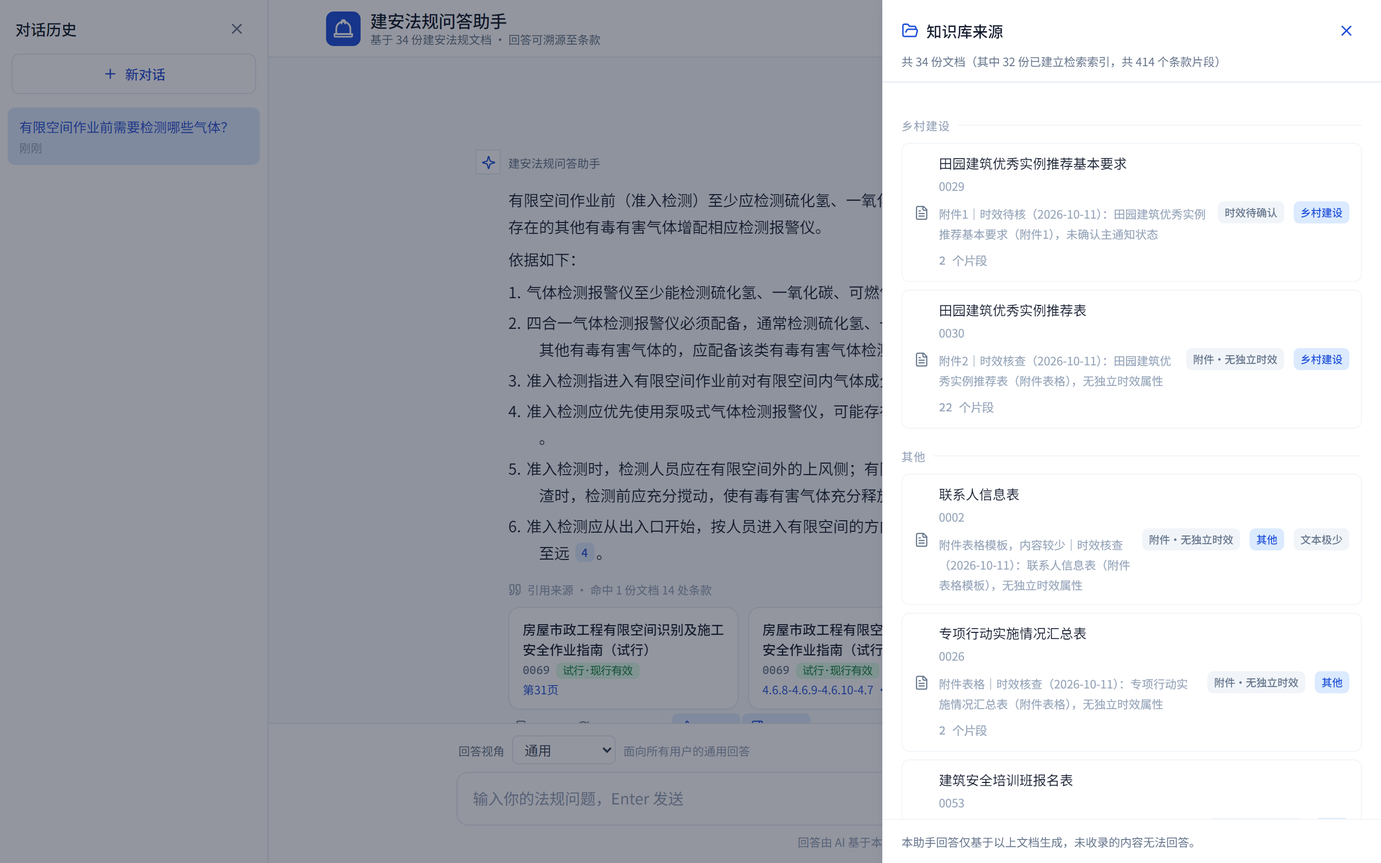
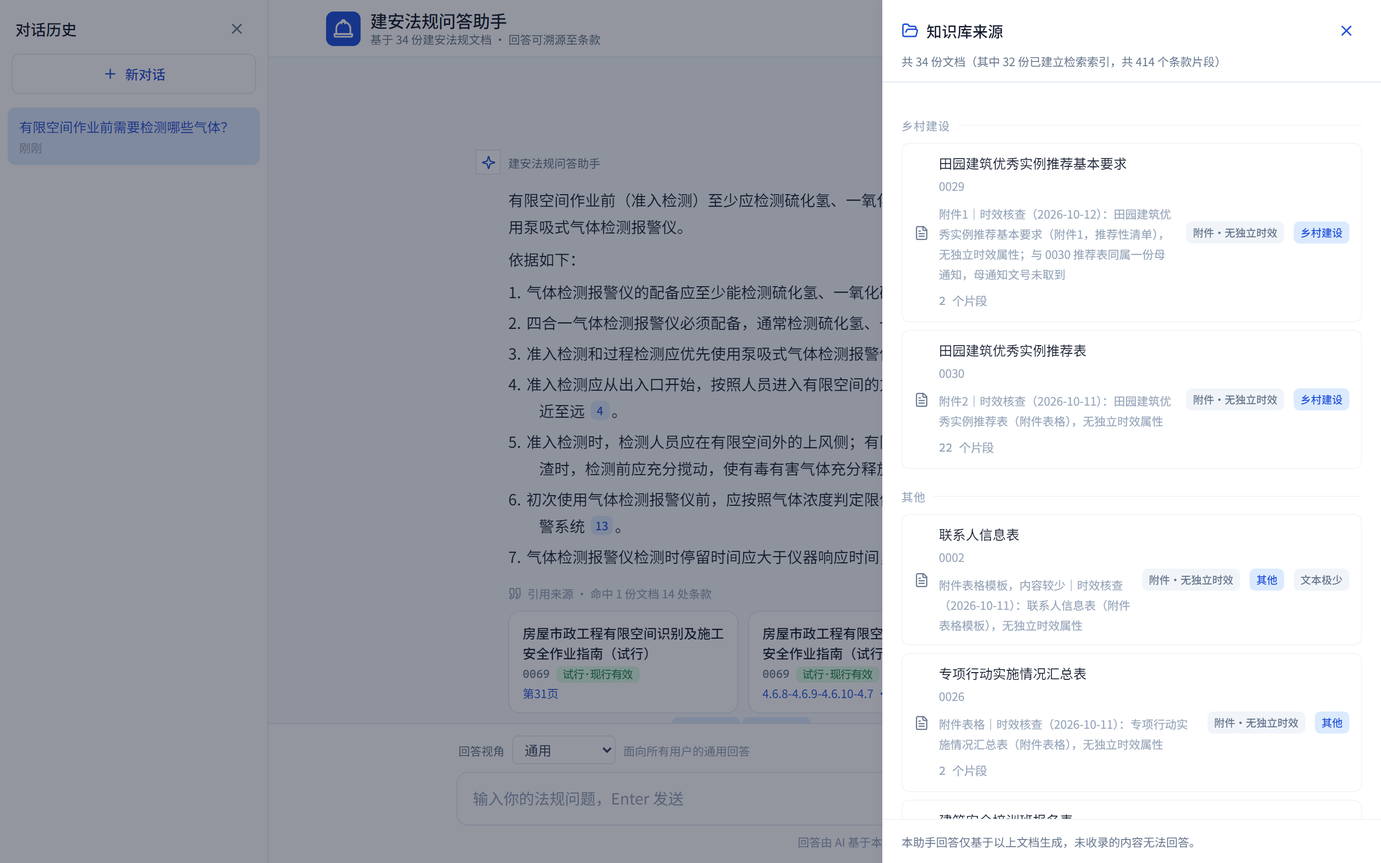
docs(kb): 时效核查第二批，unknown 由 11 份降到 1 份
对首批 11 份 unknown 做二次核查，10 份拿到公开依据、1 份仍不确定：
0003 建办质〔2018〕33号（effective）；0075/0076 出自建办质〔2024〕43号、
即已核定的 0074 的母通知（effective，标准号与自身发布日仍需比对封面）；
0005/0006 建办科〔2021〕2号 附件1/2、0017 建质安函〔2016〕47号宣传指导读物、
0029 附件、0048/0050 财办建〔2011〕187号 附件1/2、0051 财办建〔2011〕9号 附件1
（均 na，附件与年度申报大纲无独立时效）。

0001 涉企行政检查事项清单**故意保持 unknown**：公开网络取不到母文件文号，
且本地版写"房地产开发企业监督检查（3项）"、2025-10 河北转引版同条已作"（7项）"，
清单随年度动态更新，本地版很可能已过时——这种情况必须继续显示「时效待确认」，
不能为了让台账好看而标成现行有效。

工具侧两处配套修改：
- EVIDENCE 支持每条自带核查日期，台账新增"核查"列与"需人工复核"段，
  第二批只依据转发件与第三方法规库、尚未回官网比对原件这件事写在明面上。
- note 由追加改为整段重写：它是现状描述（显示在来源卡片上）不是观测日志，
  留着上一轮的"时效待核"会和新一轮"已核"同屏自相矛盾；历史由台账与 git 承担。

元数据重建后 414 片段、chunks_hash 2e65efd1315806ff… 与重建前逐字节一致，
引用逐字契约 414/414，全量总校验 9 PASS / 0 FAIL / 2 SKIPPED。

diff --git a/tools/backfill_validity.py b/tools/backfill_validity.py
@@ -54,6 +54,57 @@ EVIDENCE = {
              "建办质〔2024〕43号《关于开展建筑起重机械备案证和房屋市政工程施工安全监督人员"
              "考核合格证书电子化工作的通知》的附件业务规程（试行）；电子证照自 2024-10-01 起换发",
              "https://www.bcebca.org.cn/ShowNews.aspx?id=13124"),
+
+    # ---- 第二批（2026-10-12）：对首批 11 份 unknown 的二次核查 ----
+    # 元组可带第 5 项作为核查日期，缺省沿用 CHECKED。
+    "0003": ("effective", "2018",
+             "住房城乡建设部办公厅《关于印发震后建筑安全评估专家队工作办法的通知》"
+             "建办质〔2018〕33号；原文成文日期未取到，辽宁省住建厅转发件"
+             "辽住建安〔2018〕16号日期为 2018-08-02；未检索到废止或替代文件。"
+             "注意建办质〔2018〕34号是《第二届成员名单》、《震后房屋建筑安全应急评估"
+             "管理暂行办法》是另一份文件，均不得顶替本件",
+             "https://zjt.ln.gov.cn/zjt/tftz/53F3ACB27394430095051FB02F16F417/index.shtml",
+             "2026-10-12"),
+    "0005": ("na", "2021-01-18",
+             "建办科〔2021〕2号《住房和城乡建设部办公厅关于进一步加强历史文化街区和"
+             "历史建筑保护工作的通知》附件2（参考样式），无独立时效；母通知 2024 年仍被引用",
+             "https://www.mct.gov.cn/preview/whhlyqyzcxxfw/zhgl/202104/t20210430_924136.html",
+             "2026-10-12"),
+    "0006": ("na", "2021-01-18",
+             "同一母通知建办科〔2021〕2号 附件1（划定与确定标准·参考），参考性文件，无独立时效",
+             "http://xxgk.jl.gov.cn/zcbm/fgw_98022/xxgkmlqy/202103/P020210302731959479061.pdf",
+             "2026-10-12"),
+    "0017": ("na", "2016-05-27",
+             "住房和城乡建设部工程质量安全监管司《关于做好〈工程项目施工人员安全指导手册〉"
+             "宣传发放工作的通知》建质安函〔2016〕47号（2016-05-27），手册上传官网供免费发放；"
+             "属宣传指导读物而非规范性文件，未见新版或替代（出版单位与 ISBN 未取到官方来源）",
+             "https://www.waizi.org.cn/law/11130.html", "2026-10-12"),
+    "0029": ("na", "",
+             "田园建筑优秀实例推荐基本要求（附件1，推荐性清单），无独立时效属性；"
+             "与 0030 推荐表同属一份母通知，母通知文号未取到",
+             "", "2026-10-12"),
+    "0048": ("na", "2011-12-16",
+             "财政部办公厅、住房城乡建设部办公厅《关于组织实施2012年度太阳能光电建筑应用"
+             "示范的通知》财办建〔2011〕187号 附件1；年度性申报大纲，仅对当年度示范有效，"
+             "未见废止声明（另有目录把日期标为 2012-01-05，以正文为准待复核）",
+             "https://law.training.sdufe.edu.cn/library/detail/66446", "2026-10-12"),
+    "0050": ("na", "2011-12-16",
+             "同一母通知财办建〔2011〕187号 附件2",
+             "https://law.training.sdufe.edu.cn/library/detail/66446", "2026-10-12"),
+    "0051": ("na", "2011-01-27",
+             "《关于组织实施太阳能光电建筑应用一体化示范的通知》财办建〔2011〕9号 附件1；"
+             "与 0048/0050 分属不同年度、不同文件，三者标题相似但**不得互相顶替**"
+             "（辽宁转发件把本件写作'财建〔2011〕9号'，疑为笔误）",
+             "https://law.training.sdufe.edu.cn/library/detail/66112", "2026-10-12"),
+    "0075": ("effective", "2024-09-10",
+             "建办质〔2024〕43号通知（即 0074 的母通知）附带的电子证照信息标准；"
+             "2024-10-01 起全国试运行、2024-12-31 前全面换发，至今未见替代。"
+             "本地正文含'2025年1月1日以后出厂'的字段要求，与 2024 版结构一致。"
+             "**标准号与标准自身发布日未出现在本地文本中，需人工比对封面**",
+             "https://www.bcebca.org.cn/ShowNews.aspx?id=13124", "2026-10-12"),
+    "0076": ("effective", "2024-09-10",
+             "同 0075，同一通知的另一份电子证照信息标准",
+             "https://www.bcebca.org.cn/ShowNews.aspx?id=13124", "2026-10-12"),
 }
 
 # 按文档类型判定为非规范性文件：附件表格、示例、报名表、征订单、讲话、示意图扫描件
@@ -73,19 +124,15 @@ NON_NORMATIVE = {
     "0068": "建设项目开工'一件事'数据服务清单（附件清单）",
 }
 
-# 仍属规范性文件/技术标准，但本次未取到可靠文号或废止信息 → 保持 unknown 并记录原因
+# 仍属规范性文件/技术标准，但未取到可靠文号或废止信息 → 保持 unknown 并记录原因
+# 值为 (原因, 核查日期)
 STILL_UNKNOWN = {
-    "0001": "涉企行政检查事项清单，随年度公告更新，未取到本年度文号",
-    "0003": "震后建筑安全评估专家队工作办法，未取到文号与印发日期",
-    "0005": "保护标志牌参考样式（附件2），未确认其主文件是否仍有效",
-    "0006": "历史文化街区划定和历史建筑确定标准（参考），参考性文件，未确认现行版本",
-    "0017": "工程项目施工人员安全指导手册（指导读物，无文号）",
-    "0029": "田园建筑优秀实例推荐基本要求（附件1），未确认主通知状态",
-    "0048": "太阳能光电建筑应用集中示范区实施方案编制大纲（附件1），未确认主通知状态",
-    "0050": "太阳能光电建筑一体化应用示范项目实施方案编制大纲（附件2），同上",
-    "0051": "太阳能光电建筑应用一体化示范项目实施方案编制大纲（附件1），同上",
-    "0075": "一体化政务服务平台电子证照 建筑起重机械备案证 信息标准，未确认标准现行版本",
-    "0076": "一体化政务服务平台电子证照 施工安全监督人员考核合格证书 信息标准，同上",
+    "0001": ("涉企行政检查事项清单：住建部确曾公布，但公开网络未取到母文件文号与日期。"
+             "本地版为'房地产开发企业监督检查（3项）/城市供排水监督检查（9项）'，"
+             "而 2025-10 沧州市转引的《河北省住房城乡建设领域涉企行政检查事项主要检查标准》"
+             "同一条目已写作'（7项）'——清单随年度动态更新，本地版**很可能已过时**。"
+             "保持 unknown，界面继续显示「时效待确认」，不得当作现行检查依据",
+             "2026-10-12"),
 }
 
 STATUS_LABEL = {
@@ -107,9 +154,12 @@ def main():
     for doc_id in sorted(docs):
         entry = docs[doc_id]
         title = entry.get("title", "")
+        cdate = CHECKED
         if doc_id in EVIDENCE:
-            status, vdate, basis, url = EVIDENCE[doc_id]
-            note_add = f"时效核查（{CHECKED}）：{basis}；来源 {url}"
+            rec = EVIDENCE[doc_id]
+            status, vdate, basis, url = rec[:4]
+            cdate = rec[4] if len(rec) > 4 else CHECKED
+            note_add = f"时效核查（{cdate}）：{basis}" + (f"；来源 {url}" if url else "")
         elif doc_id in NON_NORMATIVE:
             status, vdate = "na", ""
             basis = NON_NORMATIVE[doc_id]
@@ -117,21 +167,25 @@ def main():
             note_add = f"时效核查（{CHECKED}）：{basis}，无独立时效属性"
         elif doc_id in STILL_UNKNOWN:
             status, vdate = "unknown", ""
-            basis = STILL_UNKNOWN[doc_id]
+            basis, cdate = STILL_UNKNOWN[doc_id]
             url = ""
-            note_add = f"时效待核（{CHECKED}）：{basis}"
+            note_add = f"时效待核（{cdate}）：{basis}"
         else:
             status, vdate, basis, url = "unknown", "", "本次未核查", ""
             note_add = ""
 
-        rows.append((doc_id, title, status, vdate, basis, url))
+        rows.append((doc_id, title, status, vdate, basis, url, cdate))
         if args.dry_run or not note_add:
             continue
         entry["valid_status"] = status
         entry["version_date"] = vdate
+        # note 是**现状描述**（会显示在来源卡片上），不是观测日志：
+        # 上一轮写的"时效待核（2026-10-11）"若留着，二次核查改完就会出现
+        # 一句说待核、一句说已核。历史由台账与 git 记录，这里整段重写。
         old = (entry.get("note") or "").strip()
-        if note_add not in old:
-            entry["note"] = f"{old}｜{note_add}" if old else note_add
+        keep = "｜".join(s for s in old.split("｜")
+                         if s.strip() and not s.strip().startswith(("时效核查（", "时效待核（")))
+        entry["note"] = f"{keep}｜{note_add}" if keep else note_add
 
     if not args.dry_run:
         with open(META, "w", encoding="utf-8") as f:
@@ -142,10 +196,12 @@ def main():
     counts = {}
     for _, _, s, *_ in rows:
         counts[s] = counts.get(s, 0) + 1
+    passes = sorted({r[6] for r in rows})
     lines = [
         "# 34 份法规文档时效核查台账",
         "",
-        f"核查日期：{CHECKED}　|　核查方式：公开渠道检索 + 语料正文就地核对　|　**需人工抽查确认后方可视为定稿**",
+        f"核查日期：{'、'.join(passes)}（分批推进，每批日期标在逐条记录里）　|　"
+        "核查方式：公开渠道检索 + 语料正文就地核对　|　**需人工抽查确认后方可视为定稿**",
         "",
         "状态词表（`kb/docs_meta.json` 的 `valid_status`）：",
         "",
@@ -165,17 +221,27 @@ def main():
         if counts.get(k):
             lines.append(f"- {STATUS_LABEL[k]}（`{k}`）：**{counts[k]}** 份")
     lines += ["", "## 逐条记录", "",
-              "| doc_id | 文档 | 状态 | 版本/施行日期 | 依据 | 来源 |",
-              "|---|---|---|---|---|---|"]
-    for doc_id, title, status, vdate, basis, url in rows:
+              "| doc_id | 文档 | 状态 | 版本/施行日期 | 核查 | 依据 | 来源 |",
+              "|---|---|---|---|---|---|---|"]
+    for doc_id, title, status, vdate, basis, url, cdate in rows:
         link = f"[链接]({url})" if url else "—"
-        lines.append(f"| {doc_id} | {title[:28]} | `{status}` | {vdate or '—'} | {basis} | {link} |")
+        lines.append(f"| {doc_id} | {title[:28]} | `{status}` | {vdate or '—'} | "
+                     f"{cdate} | {basis} | {link} |")
+    unk = [r[0] for r in rows if r[2] == "unknown"]
+    recheck = [r[0] for r in rows
+               if r[6] == max(passes) and r[2] in ("effective", "trial", "na")]
     lines += ["", "## 尚未解决的部分", "",
-              f"{counts.get('unknown', 0)} 份仍为 `unknown`，原因见上表。这些条目在界面上继续显示"
+              f"{len(unk)} 份仍为 `unknown`（{('、'.join(unk)) or '无'}），原因见上表。这些条目在界面上继续显示"
               "**「时效待确认」**徽章——这是有意为之：宁可显式承认未核，也不要给出未经验证的「现行有效」。",
               "",
-              "**下一步**：由队员逐份到发文机关官网或国家法律法规数据库（flk.npc.gov.cn）复核，"
-              "优先处理仍为 `unknown` 的规范性文件（0001、0003、0005、0006、0029、0048、0050、0051、0075、0076）。",
+              "## 需人工复核的部分",
+              "",
+              f"第二批（{max(passes)}）新核定的 {len(recheck)} 份（{'、'.join(recheck)}）"
+              "依据的是公开检索到的转发件与第三方法规库，**尚未逐份回到发文机关官网或"
+              "国家法律法规数据库（flk.npc.gov.cn）比对原件**，其中 0075/0076 的标准号与"
+              "标准自身发布日未出现在本地正文里，需人工比对封面后才能写成定论。",
+              "",
+              "**下一步**：由队员对上述条目逐份复核原件；优先处理仍为 `unknown` 的规范性文件。",
               ""]
     if not args.dry_run:
         with open(LEDGER, "w", encoding="utf-8") as f:

diff --git a/docs/法规时效核查台账.md b/docs/法规时效核查台账.md
@@ -1,6 +1,6 @@
 # 34 份法规文档时效核查台账
 
-核查日期：2026-10-11　|　核查方式：公开渠道检索 + 语料正文就地核对　|　**需人工抽查确认后方可视为定稿**
+核查日期：2026-10-11、2026-10-12（分批推进，每批日期标在逐条记录里）　|　核查方式：公开渠道检索 + 语料正文就地核对　|　**需人工抽查确认后方可视为定稿**
 
 状态词表（`kb/docs_meta.json` 的 `valid_status`）：
 
@@ -15,53 +15,57 @@
 
 ## 统计
 
-- 现行有效（`effective`）：**5** 份
+- 现行有效（`effective`）：**8** 份
 - 试行·现行有效（`trial`）：**4** 份
 - 征求意见稿·未生效（`consultation`）：**1** 份
-- 附件·无独立时效（`na`）：**13** 份
-- 待确认（`unknown`）：**11** 份
+- 附件·无独立时效（`na`）：**20** 份
+- 待确认（`unknown`）：**1** 份
 
 ## 逐条记录
 
-| doc_id | 文档 | 状态 | 版本/施行日期 | 依据 | 来源 |
-|---|---|---|---|---|---|
-| 0001 | 住房城乡建设部涉企行政检查事项 | `unknown` | — | 涉企行政检查事项清单，随年度公告更新，未取到本年度文号 | — |
-| 0002 | 联系人信息表 | `na` | — | 联系人信息表（附件表格模板） | — |
-| 0003 | 震后建筑安全评估专家队工作办法 | `unknown` | — | 震后建筑安全评估专家队工作办法，未取到文号与印发日期 | — |
-| 0004 | 建筑施工安全隐患示意图（扫描图片版） | `na` | — | 施工安全隐患示意图（扫描图片版，图示材料） | — |
-| 0005 | 历史文化街区和历史建筑保护标志牌参考样式 | `unknown` | — | 保护标志牌参考样式（附件2），未确认其主文件是否仍有效 | — |
-| 0006 | 历史文化街区划定和历史建筑确定标准（参考） | `unknown` | — | 历史文化街区划定和历史建筑确定标准（参考），参考性文件，未确认现行版本 | — |
-| 0011 | 震后房屋建筑安全应急评估管理暂行办法 | `effective` | 2016-12-13 | 建质〔2016〕253号 印发 | [链接](https://www.waizi.org.cn/law/15327.html) |
-| 0012 | 震后房屋建筑安全应急评估技术指南 | `effective` | 2020-08-17 | 住房城乡建设部印发《震后房屋建筑安全应急评估技术指南》的通知 | [链接](https://www.sxjzy.org/h-nd-1798.html) |
-| 0017 | 工程项目施工人员安全指导手册 | `unknown` | — | 工程项目施工人员安全指导手册（指导读物，无文号） | — |
-| 0026 | 专项行动实施情况汇总表 | `na` | — | 专项行动实施情况汇总表（附件表格） | — |
-| 0029 | 田园建筑优秀实例推荐基本要求 | `unknown` | — | 田园建筑优秀实例推荐基本要求（附件1），未确认主通知状态 | — |
-| 0030 | 田园建筑优秀实例推荐表 | `na` | — | 田园建筑优秀实例推荐表（附件表格） | — |
-| 0048 | 太阳能光电建筑应用集中示范区实施方案编制大纲 | `unknown` | — | 太阳能光电建筑应用集中示范区实施方案编制大纲（附件1），未确认主通知状态 | — |
-| 0049 | 太阳能光电建筑应用财政补助资金申请汇总表 | `na` | — | 太阳能光电建筑应用财政补助资金申请汇总表（附件表格） | — |
-| 0050 | 太阳能光电建筑一体化应用示范项目实施方案编制大纲 | `unknown` | — | 太阳能光电建筑一体化应用示范项目实施方案编制大纲（附件2），同上 | — |
-| 0051 | 太阳能光电建筑应用一体化示范项目实施方案编制大纲 | `unknown` | — | 太阳能光电建筑应用一体化示范项目实施方案编制大纲（附件1），同上 | — |
-| 0052 | 太阳能光电建筑应用财政补助资金申请汇总表（早期版） | `na` | — | 同上（早期版附件表格） | — |
-| 0053 | 建筑安全培训班报名表 | `na` | — | 建筑安全培训班报名表（报名表） | — |
-| 0057 | 在全国建筑安全生产联络员第十二次会议上的讲话 | `na` | — | 在全国建筑安全生产联络员第十二次会议上的讲话（2010 年讲话稿） | — |
-| 0062 | 《建筑施工特种作业人员安全技术考核培训教材》征订单 | `na` | — | 《建筑施工特种作业人员安全技术考核培训教材》征订单 | — |
-| 0063 | 建筑施工特种作业人员管理规定 | `effective` | 2026-06-01 | 住房和城乡建设部令第60号（2025-12-17 公布），取代建质〔2008〕75号；语料正文含'第60号'与'2026年6月1日起施行'，已就地核对 | [链接](https://policy.mofcom.gov.cn/claw/clawContent.shtml?id=105695) |
-| 0064 | 建筑施工特种作业人员管理规定（PDF版式） | `effective` | 2026-06-01 | 同 0063（PDF 版式副本，正文含第60号令与施行日期） | [链接](https://policy.mofcom.gov.cn/claw/clawContent.shtml?id=105695) |
-| 0065 | 建设项目开工“一件事”申请表（示例） | `na` | — | 建设项目开工'一件事'申请表（示例） | — |
-| 0066 | 建设项目开工“一件事”材料清单（示例） | `na` | — | 建设项目开工'一件事'材料清单（示例） | — |
-| 0067 | 建设项目开工“一件事”办理流程（示例） | `na` | — | 建设项目开工'一件事'办理流程（示例流程图） | — |
-| 0068 | 建设项目开工“一件事”数据服务清单 | `na` | — | 建设项目开工'一件事'数据服务清单（附件清单） | — |
-| 0069 | 房屋市政工程有限空间识别及施工安全作业指南（试行） | `trial` | 2025-06-23 | 住房城乡建设部办公厅关于印发《房屋市政工程有限空间识别及施工安全作业指南（试行）》的通知；试行稿已印发施行，属现行有效的试行性文件 | [链接](https://www.jsjlztb.org.cn/m/zfwj8-2.html) |
-| 0070 | 房屋市政工程有限空间识别及施工安全作业指南（征求意见稿） | `consultation` | 2025-03-01 | 同指南的征求意见稿，未生效；已由 0069 试行版取代，不得作为施工依据 | [链接](https://www.grandall.com.cn/ghsd/info.aspx?itemid=34422) |
-| 0071 | 危险性较大的分部分项工程专项施工方案严重缺陷清单（试行） | `trial` | 2024-12-31 | 建办质〔2024〕63号 印发（试行）；各地 2025-01 转发 | [链接](https://www.sxjzy.org/h-nd-37531.html) |
-| 0072 | 房屋建筑和市政基础设施工程禁止和限制使用技术目录（第二批 | `effective` | 2025-08-03 | 住房城乡建设部公告2024年第186号发布（2024-12-03），自发布之日起 9 个月后即 2025-08-03 起实施 | [链接](https://zjt.xinjiang.gov.cn/xjzjt/c113175/202412/22979485f90048bb974d2d6c63205c4f.shtml) |
-| 0073 | 房屋市政工程施工安全监督人员培训考核大纲（试行） | `trial` | 2024-11-25 | 建办质〔2024〕56号 印发（试行） | [链接](https://www.bcebca.org.cn/ShowNews.aspx?id=13440) |
-| 0074 | 建筑起重机械备案证、房屋市政工程施工安全监督人员考核合格 | `trial` | 2024-09-10 | 建办质〔2024〕43号《关于开展建筑起重机械备案证和房屋市政工程施工安全监督人员考核合格证书电子化工作的通知》的附件业务规程（试行）；电子证照自 2024-10-01 起换发 | [链接](https://www.bcebca.org.cn/ShowNews.aspx?id=13124) |
-| 0075 | 一体化政务服务平台 电子证照 建筑起重机械备案证 | `unknown` | — | 一体化政务服务平台电子证照 建筑起重机械备案证 信息标准，未确认标准现行版本 | — |
-| 0076 | 一体化政务服务平台 电子证照 房屋市政工程施工安全监督人 | `unknown` | — | 一体化政务服务平台电子证照 施工安全监督人员考核合格证书 信息标准，同上 | — |
+| doc_id | 文档 | 状态 | 版本/施行日期 | 核查 | 依据 | 来源 |
+|---|---|---|---|---|---|---|
+| 0001 | 住房城乡建设部涉企行政检查事项 | `unknown` | — | 2026-10-12 | 涉企行政检查事项清单：住建部确曾公布，但公开网络未取到母文件文号与日期。本地版为'房地产开发企业监督检查（3项）/城市供排水监督检查（9项）'，而 2025-10 沧州市转引的《河北省住房城乡建设领域涉企行政检查事项主要检查标准》同一条目已写作'（7项）'——清单随年度动态更新，本地版**很可能已过时**。保持 unknown，界面继续显示「时效待确认」，不得当作现行检查依据 | — |
+| 0002 | 联系人信息表 | `na` | — | 2026-10-11 | 联系人信息表（附件表格模板） | — |
+| 0003 | 震后建筑安全评估专家队工作办法 | `effective` | 2018 | 2026-10-12 | 住房城乡建设部办公厅《关于印发震后建筑安全评估专家队工作办法的通知》建办质〔2018〕33号；原文成文日期未取到，辽宁省住建厅转发件辽住建安〔2018〕16号日期为 2018-08-02；未检索到废止或替代文件。注意建办质〔2018〕34号是《第二届成员名单》、《震后房屋建筑安全应急评估管理暂行办法》是另一份文件，均不得顶替本件 | [链接](https://zjt.ln.gov.cn/zjt/tftz/53F3ACB27394430095051FB02F16F417/index.shtml) |
+| 0004 | 建筑施工安全隐患示意图（扫描图片版） | `na` | — | 2026-10-11 | 施工安全隐患示意图（扫描图片版，图示材料） | — |
+| 0005 | 历史文化街区和历史建筑保护标志牌参考样式 | `na` | 2021-01-18 | 2026-10-12 | 建办科〔2021〕2号《住房和城乡建设部办公厅关于进一步加强历史文化街区和历史建筑保护工作的通知》附件2（参考样式），无独立时效；母通知 2024 年仍被引用 | [链接](https://www.mct.gov.cn/preview/whhlyqyzcxxfw/zhgl/202104/t20210430_924136.html) |
+| 0006 | 历史文化街区划定和历史建筑确定标准（参考） | `na` | 2021-01-18 | 2026-10-12 | 同一母通知建办科〔2021〕2号 附件1（划定与确定标准·参考），参考性文件，无独立时效 | [链接](http://xxgk.jl.gov.cn/zcbm/fgw_98022/xxgkmlqy/202103/P020210302731959479061.pdf) |
+| 0011 | 震后房屋建筑安全应急评估管理暂行办法 | `effective` | 2016-12-13 | 2026-10-11 | 建质〔2016〕253号 印发 | [链接](https://www.waizi.org.cn/law/15327.html) |
+| 0012 | 震后房屋建筑安全应急评估技术指南 | `effective` | 2020-08-17 | 2026-10-11 | 住房城乡建设部印发《震后房屋建筑安全应急评估技术指南》的通知 | [链接](https://www.sxjzy.org/h-nd-1798.html) |
+| 0017 | 工程项目施工人员安全指导手册 | `na` | 2016-05-27 | 2026-10-12 | 住房和城乡建设部工程质量安全监管司《关于做好〈工程项目施工人员安全指导手册〉宣传发放工作的通知》建质安函〔2016〕47号（2016-05-27），手册上传官网供免费发放；属宣传指导读物而非规范性文件，未见新版或替代（出版单位与 ISBN 未取到官方来源） | [链接](https://www.waizi.org.cn/law/11130.html) |
+| 0026 | 专项行动实施情况汇总表 | `na` | — | 2026-10-11 | 专项行动实施情况汇总表（附件表格） | — |
+| 0029 | 田园建筑优秀实例推荐基本要求 | `na` | — | 2026-10-12 | 田园建筑优秀实例推荐基本要求（附件1，推荐性清单），无独立时效属性；与 0030 推荐表同属一份母通知，母通知文号未取到 | — |
+| 0030 | 田园建筑优秀实例推荐表 | `na` | — | 2026-10-11 | 田园建筑优秀实例推荐表（附件表格） | — |
+| 0048 | 太阳能光电建筑应用集中示范区实施方案编制大纲 | `na` | 2011-12-16 | 2026-10-12 | 财政部办公厅、住房城乡建设部办公厅《关于组织实施2012年度太阳能光电建筑应用示范的通知》财办建〔2011〕187号 附件1；年度性申报大纲，仅对当年度示范有效，未见废止声明（另有目录把日期标为 2012-01-05，以正文为准待复核） | [链接](https://law.training.sdufe.edu.cn/library/detail/66446) |
+| 0049 | 太阳能光电建筑应用财政补助资金申请汇总表 | `na` | — | 2026-10-11 | 太阳能光电建筑应用财政补助资金申请汇总表（附件表格） | — |
+| 0050 | 太阳能光电建筑一体化应用示范项目实施方案编制大纲 | `na` | 2011-12-16 | 2026-10-12 | 同一母通知财办建〔2011〕187号 附件2 | [链接](https://law.training.sdufe.edu.cn/library/detail/66446) |
+| 0051 | 太阳能光电建筑应用一体化示范项目实施方案编制大纲 | `na` | 2011-01-27 | 2026-10-12 | 《关于组织实施太阳能光电建筑应用一体化示范的通知》财办建〔2011〕9号 附件1；与 0048/0050 分属不同年度、不同文件，三者标题相似但**不得互相顶替**（辽宁转发件把本件写作'财建〔2011〕9号'，疑为笔误） | [链接](https://law.training.sdufe.edu.cn/library/detail/66112) |
+| 0052 | 太阳能光电建筑应用财政补助资金申请汇总表（早期版） | `na` | — | 2026-10-11 | 同上（早期版附件表格） | — |
+| 0053 | 建筑安全培训班报名表 | `na` | — | 2026-10-11 | 建筑安全培训班报名表（报名表） | — |
+| 0057 | 在全国建筑安全生产联络员第十二次会议上的讲话 | `na` | — | 2026-10-11 | 在全国建筑安全生产联络员第十二次会议上的讲话（2010 年讲话稿） | — |
+| 0062 | 《建筑施工特种作业人员安全技术考核培训教材》征订单 | `na` | — | 2026-10-11 | 《建筑施工特种作业人员安全技术考核培训教材》征订单 | — |
+| 0063 | 建筑施工特种作业人员管理规定 | `effective` | 2026-06-01 | 2026-10-11 | 住房和城乡建设部令第60号（2025-12-17 公布），取代建质〔2008〕75号；语料正文含'第60号'与'2026年6月1日起施行'，已就地核对 | [链接](https://policy.mofcom.gov.cn/claw/clawContent.shtml?id=105695) |
+| 0064 | 建筑施工特种作业人员管理规定（PDF版式） | `effective` | 2026-06-01 | 2026-10-11 | 同 0063（PDF 版式副本，正文含第60号令与施行日期） | [链接](https://policy.mofcom.gov.cn/claw/clawContent.shtml?id=105695) |
+| 0065 | 建设项目开工“一件事”申请表（示例） | `na` | — | 2026-10-11 | 建设项目开工'一件事'申请表（示例） | — |
+| 0066 | 建设项目开工“一件事”材料清单（示例） | `na` | — | 2026-10-11 | 建设项目开工'一件事'材料清单（示例） | — |
+| 0067 | 建设项目开工“一件事”办理流程（示例） | `na` | — | 2026-10-11 | 建设项目开工'一件事'办理流程（示例流程图） | — |
+| 0068 | 建设项目开工“一件事”数据服务清单 | `na` | — | 2026-10-11 | 建设项目开工'一件事'数据服务清单（附件清单） | — |
+| 0069 | 房屋市政工程有限空间识别及施工安全作业指南（试行） | `trial` | 2025-06-23 | 2026-10-11 | 住房城乡建设部办公厅关于印发《房屋市政工程有限空间识别及施工安全作业指南（试行）》的通知；试行稿已印发施行，属现行有效的试行性文件 | [链接](https://www.jsjlztb.org.cn/m/zfwj8-2.html) |
+| 0070 | 房屋市政工程有限空间识别及施工安全作业指南（征求意见稿） | `consultation` | 2025-03-01 | 2026-10-11 | 同指南的征求意见稿，未生效；已由 0069 试行版取代，不得作为施工依据 | [链接](https://www.grandall.com.cn/ghsd/info.aspx?itemid=34422) |
+| 0071 | 危险性较大的分部分项工程专项施工方案严重缺陷清单（试行） | `trial` | 2024-12-31 | 2026-10-11 | 建办质〔2024〕63号 印发（试行）；各地 2025-01 转发 | [链接](https://www.sxjzy.org/h-nd-37531.html) |
+| 0072 | 房屋建筑和市政基础设施工程禁止和限制使用技术目录（第二批 | `effective` | 2025-08-03 | 2026-10-11 | 住房城乡建设部公告2024年第186号发布（2024-12-03），自发布之日起 9 个月后即 2025-08-03 起实施 | [链接](https://zjt.xinjiang.gov.cn/xjzjt/c113175/202412/22979485f90048bb974d2d6c63205c4f.shtml) |
+| 0073 | 房屋市政工程施工安全监督人员培训考核大纲（试行） | `trial` | 2024-11-25 | 2026-10-11 | 建办质〔2024〕56号 印发（试行） | [链接](https://www.bcebca.org.cn/ShowNews.aspx?id=13440) |
+| 0074 | 建筑起重机械备案证、房屋市政工程施工安全监督人员考核合格 | `trial` | 2024-09-10 | 2026-10-11 | 建办质〔2024〕43号《关于开展建筑起重机械备案证和房屋市政工程施工安全监督人员考核合格证书电子化工作的通知》的附件业务规程（试行）；电子证照自 2024-10-01 起换发 | [链接](https://www.bcebca.org.cn/ShowNews.aspx?id=13124) |
+| 0075 | 一体化政务服务平台 电子证照 建筑起重机械备案证 | `effective` | 2024-09-10 | 2026-10-12 | 建办质〔2024〕43号通知（即 0074 的母通知）附带的电子证照信息标准；2024-10-01 起全国试运行、2024-12-31 前全面换发，至今未见替代。本地正文含'2025年1月1日以后出厂'的字段要求，与 2024 版结构一致。**标准号与标准自身发布日未出现在本地文本中，需人工比对封面** | [链接](https://www.bcebca.org.cn/ShowNews.aspx?id=13124) |
+| 0076 | 一体化政务服务平台 电子证照 房屋市政工程施工安全监督人 | `effective` | 2024-09-10 | 2026-10-12 | 同 0075，同一通知的另一份电子证照信息标准 | [链接](https://www.bcebca.org.cn/ShowNews.aspx?id=13124) |
 
 ## 尚未解决的部分
 
-11 份仍为 `unknown`，原因见上表。这些条目在界面上继续显示**「时效待确认」**徽章——这是有意为之：宁可显式承认未核，也不要给出未经验证的「现行有效」。
+1 份仍为 `unknown`（0001），原因见上表。这些条目在界面上继续显示**「时效待确认」**徽章——这是有意为之：宁可显式承认未核，也不要给出未经验证的「现行有效」。
 
-**下一步**：由队员逐份到发文机关官网或国家法律法规数据库（flk.npc.gov.cn）复核，优先处理仍为 `unknown` 的规范性文件（0001、0003、0005、0006、0029、0048、0050、0051、0075、0076）。
+## 需人工复核的部分
+
+第二批（2026-10-12）新核定的 10 份（0003、0005、0006、0017、0029、0048、0050、0051、0075、0076）依据的是公开检索到的转发件与第三方法规库，**尚未逐份回到发文机关官网或国家法律法规数据库（flk.npc.gov.cn）比对原件**，其中 0075/0076 的标准号与标准自身发布日未出现在本地正文里，需人工比对封面后才能写成定论。
+
+**下一步**：由队员对上述条目逐份复核原件；优先处理仍为 `unknown` 的规范性文件。

diff --git a/docs/核验报告.md b/docs/核验报告.md
@@ -1,7 +1,7 @@
 # 核验报告（一键复现）
 
-- 生成时间：2026-10-12 01:06:16
-- 代码版本：`9b31c68`
+- 生成时间：2026-10-12 01:25:32
+- 代码版本：`902f68c`
 - 复现命令：`python tools/verify_all.py`（本报告由该命令自动生成，非手工整理）
 - 结果：**9 PASS / 0 FAIL / 2 SKIPPED**
 
@@ -12,7 +12,7 @@
 | 检查项 | 结论 | 退出码 | 关键数字 / 说明 |
 |---|---|---|---|
 | 引用逐字契约（片段 vs 源文本逐字比对） | ✅ PASS | 0 | 不一致: 0 |
-| 时效降权与鉴权单元用例（unittest） | ✅ PASS | 0 | Ran 16 tests in 0.231s |
+| 时效降权与鉴权单元用例（unittest） | ✅ PASS | 0 | Ran 16 tests in 0.226s |
 | 库内题检索回归（14 题阈值） | ✅ PASS | 0 | RESULT: PASS — 全部 14 道库内题通过阈值 |
 | 混合检索零回归（HYBRID on/off 对比） | ✅ PASS | 0 | 9/9 PASS |
 | 迭代2 API 契约（时效列/逐字快照/chat 事件序列） | ✅ PASS | 0 | RESULT: 15/15 PASS |
